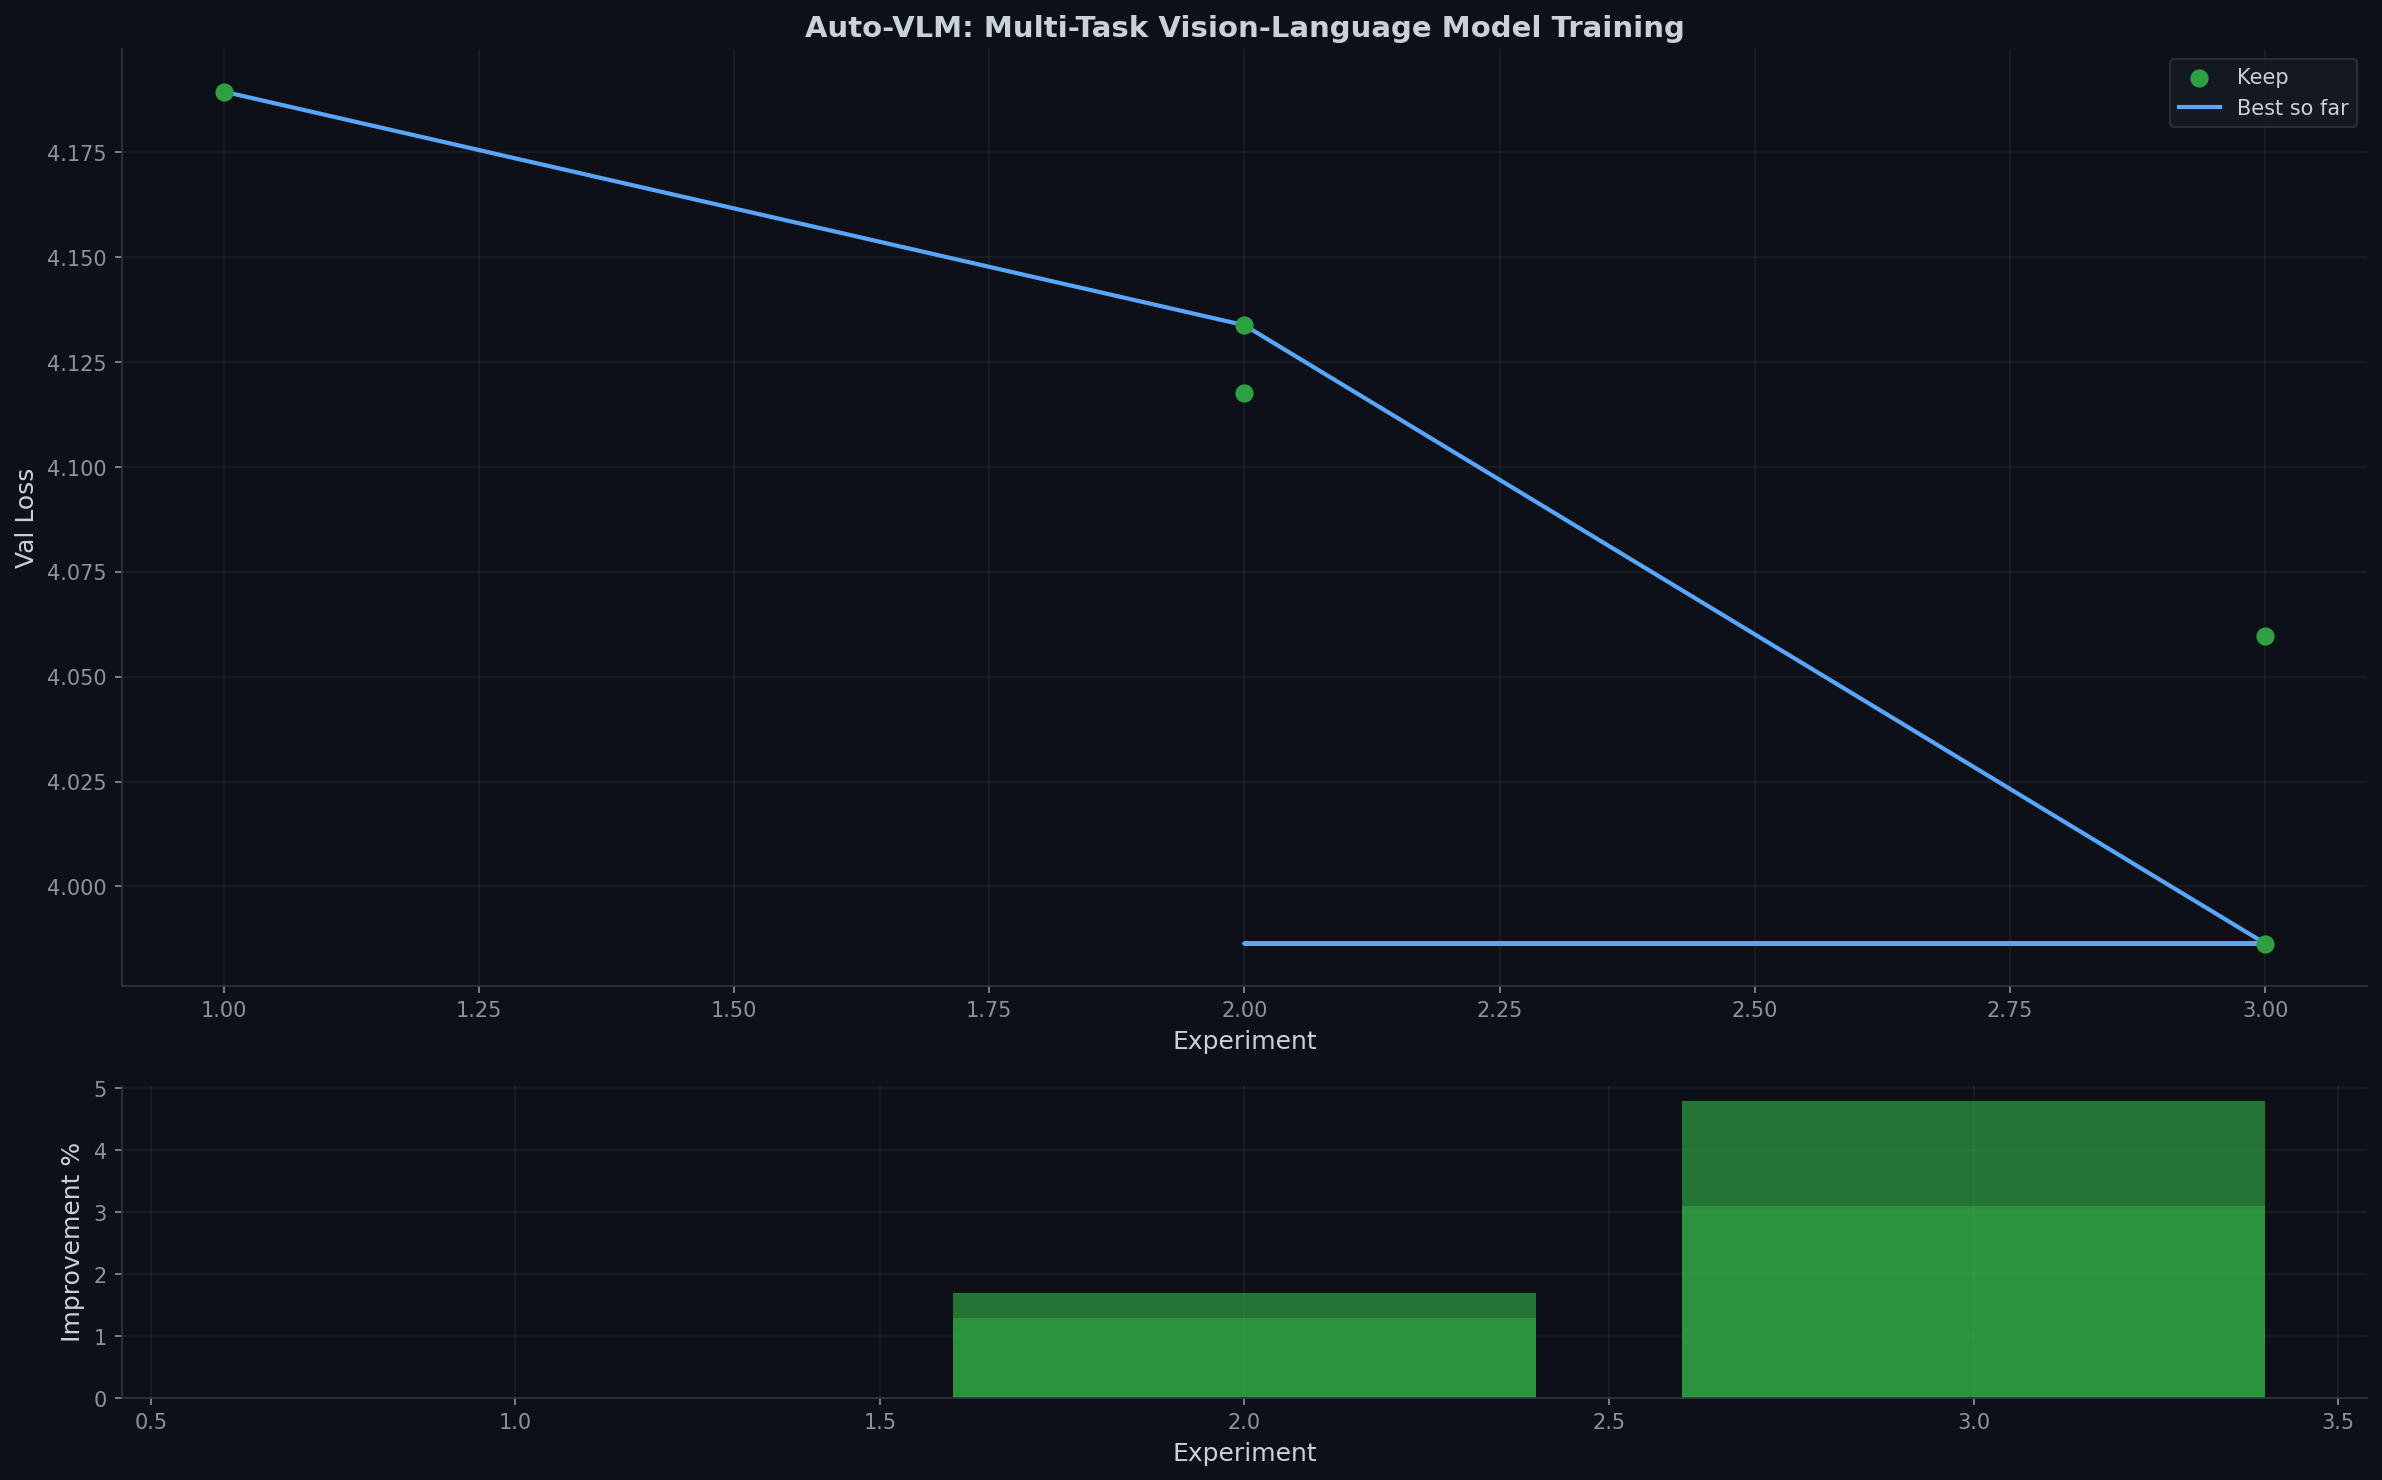
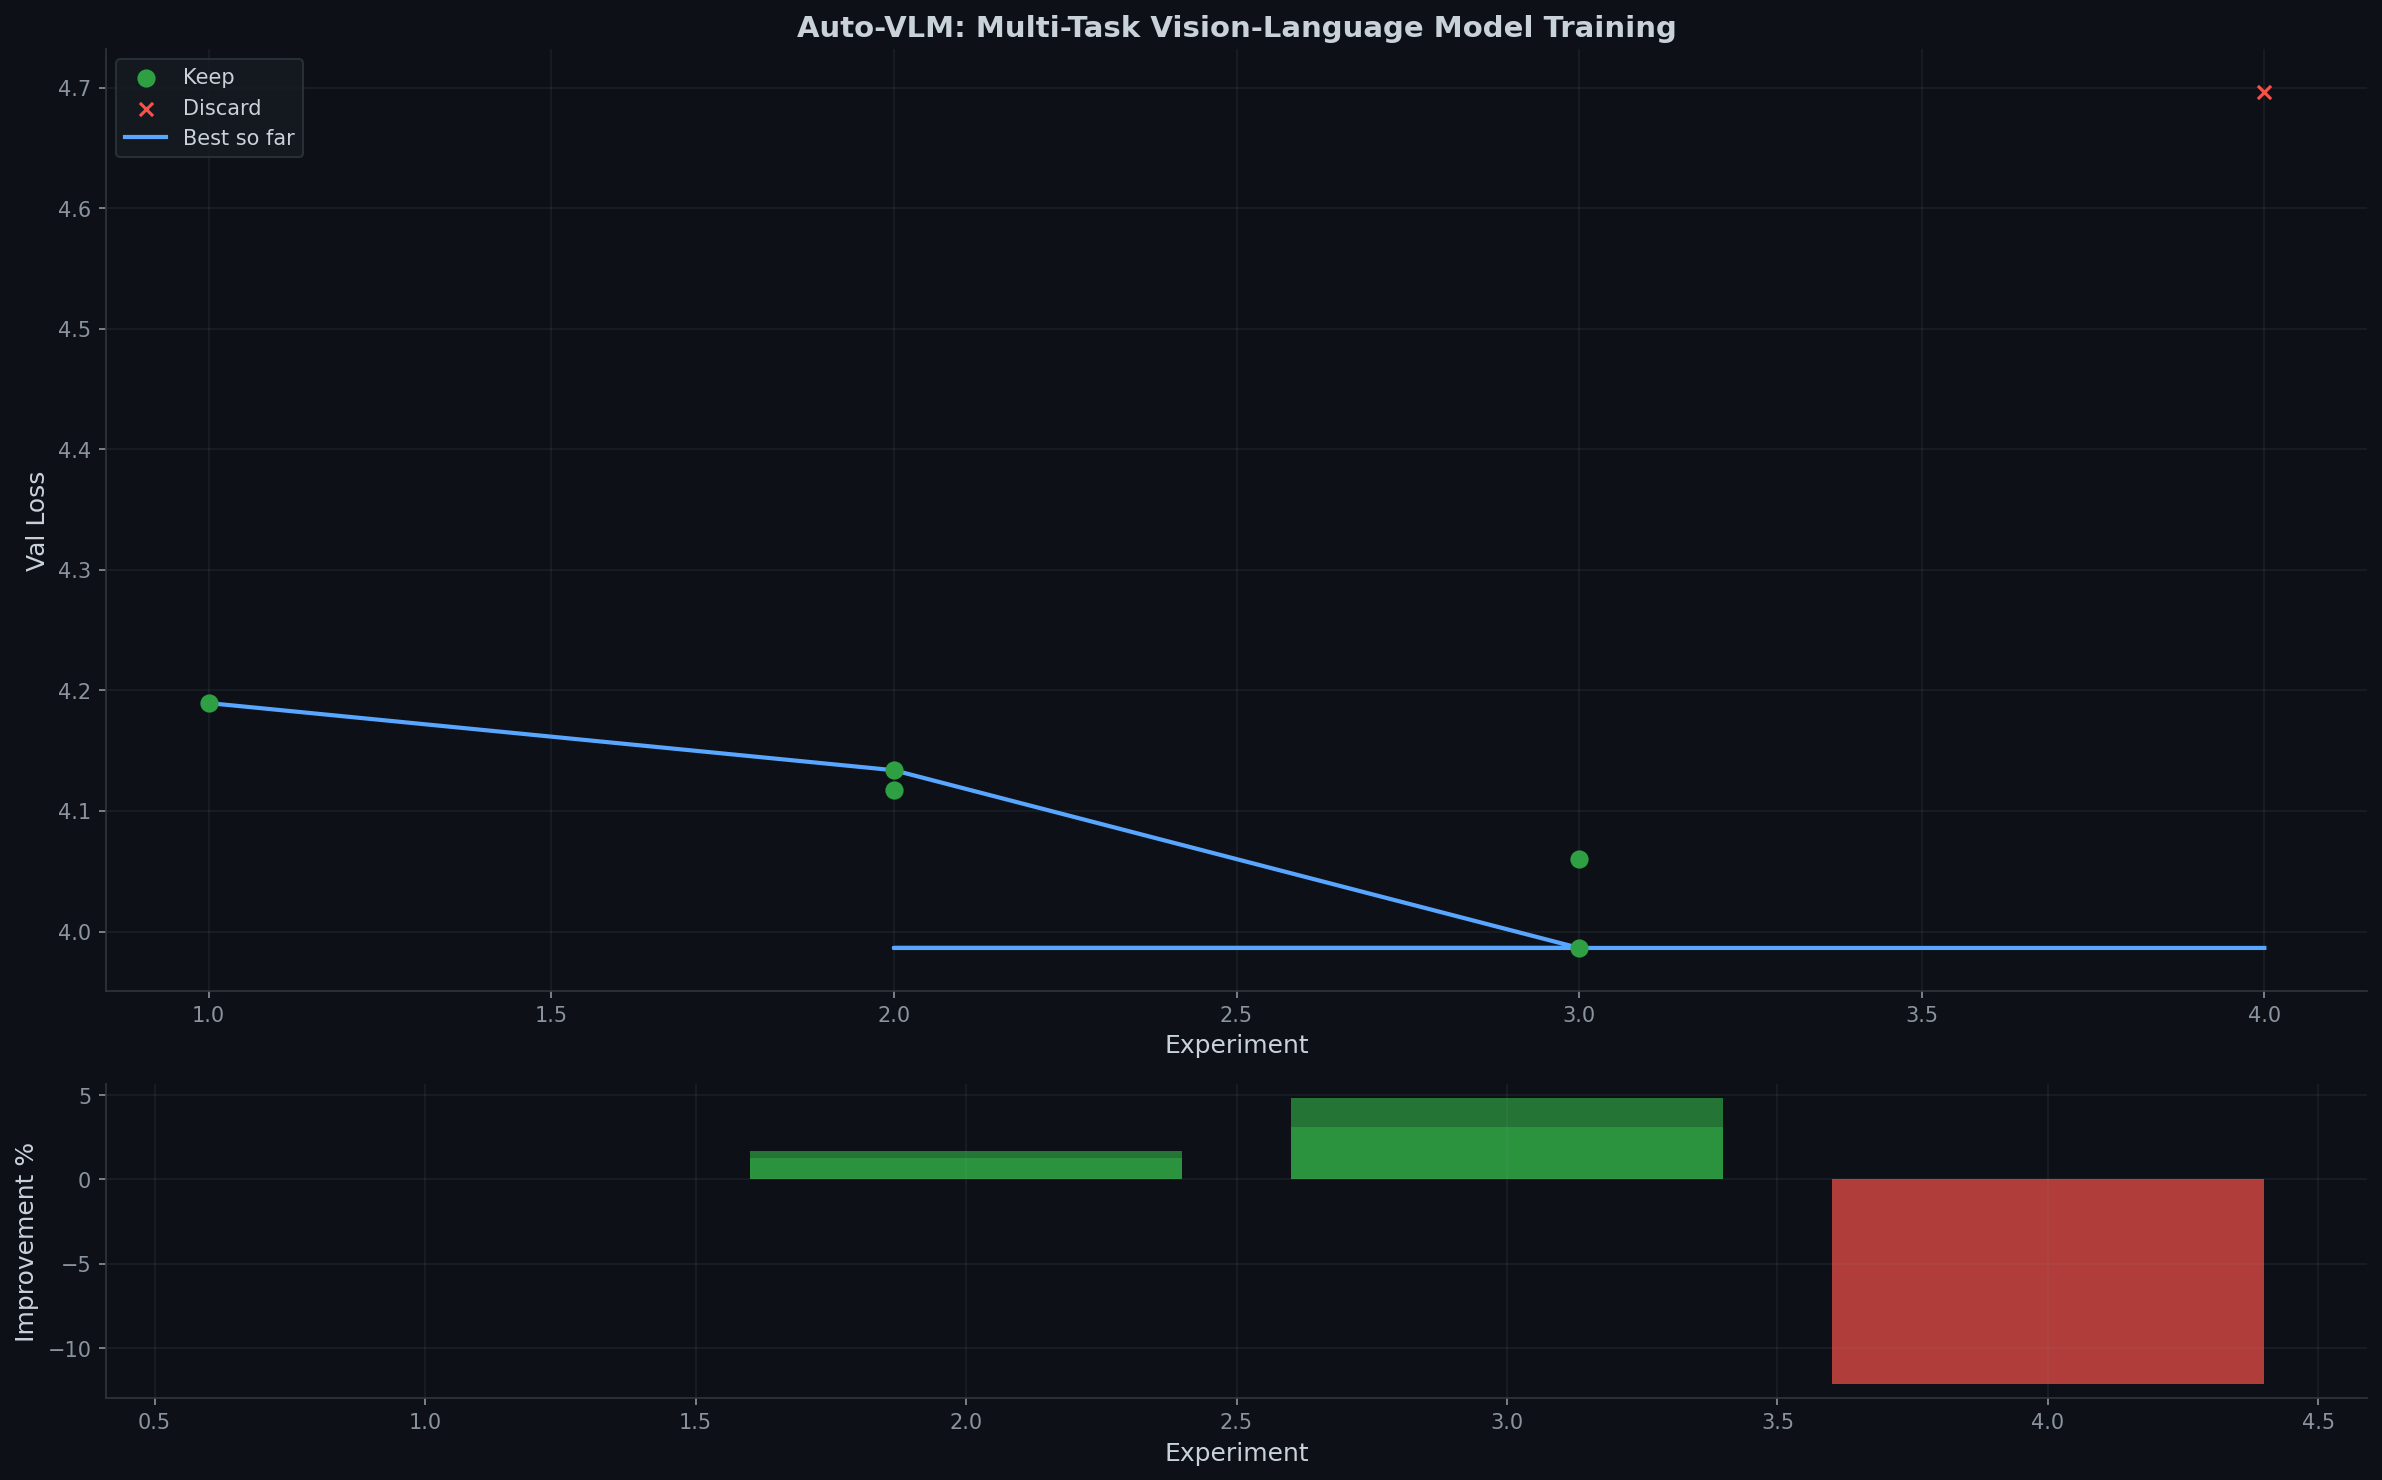
exp 004: lr=1e-2 DISCARD (val=4.6965, -12.1%)

diff --git a/index.html b/index.html
@@ -136,7 +136,7 @@
     </div>
 
     <div class="stats">
-        <div class="stat-card"><div class="label">Experiments</div><div class="value" id="total-exp">5</div></div>
+        <div class="stat-card"><div class="label">Experiments</div><div class="value" id="total-exp">6</div></div>
         <div class="stat-card"><div class="label">Kept</div><div class="value green" id="kept-exp">5</div></div>
         <div class="stat-card"><div class="label">Best Val Loss</div><div class="value" id="best-loss">3.9864</div></div>
         <div class="stat-card"><div class="label">Improvement</div><div class="value yellow" id="improvement">4.8%</div></div>
